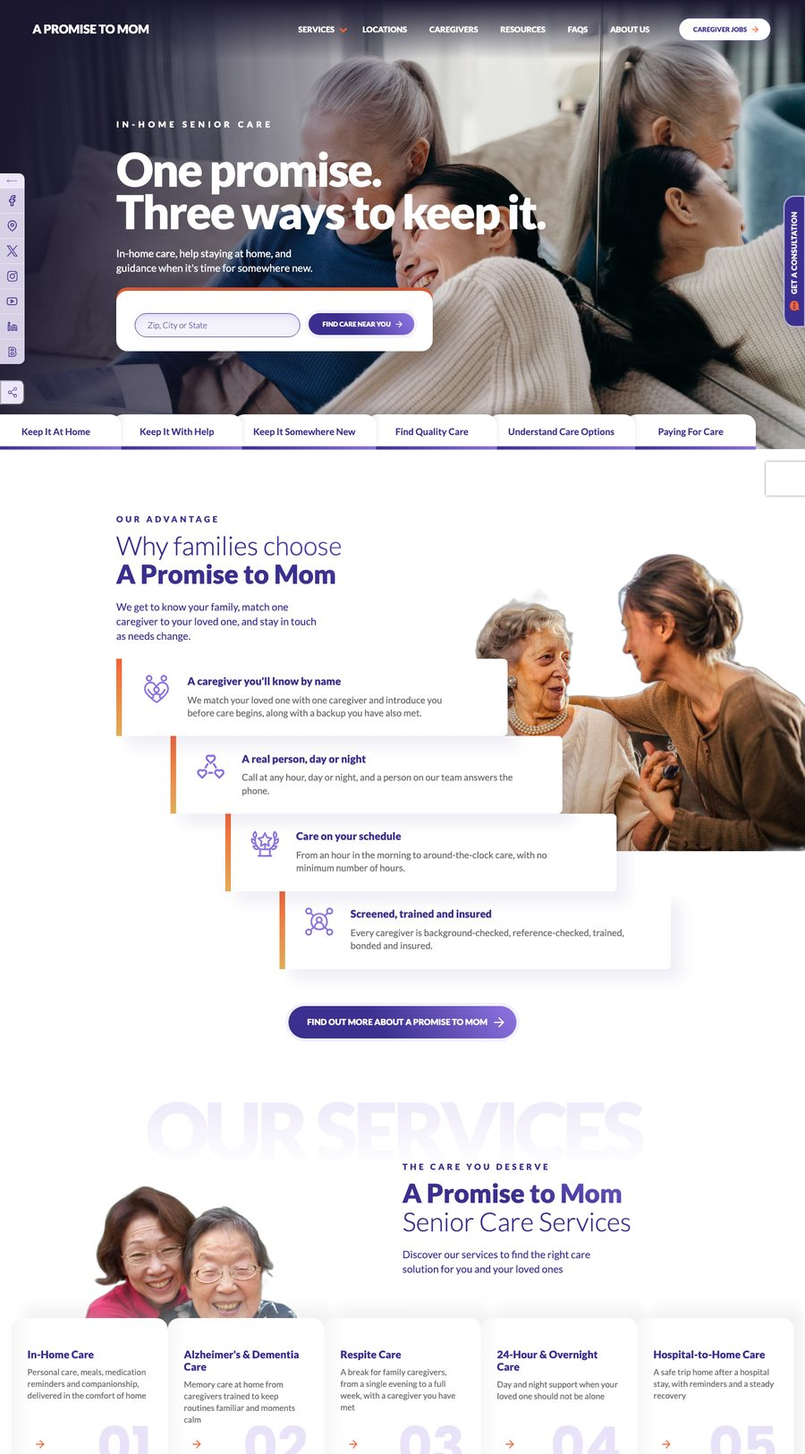
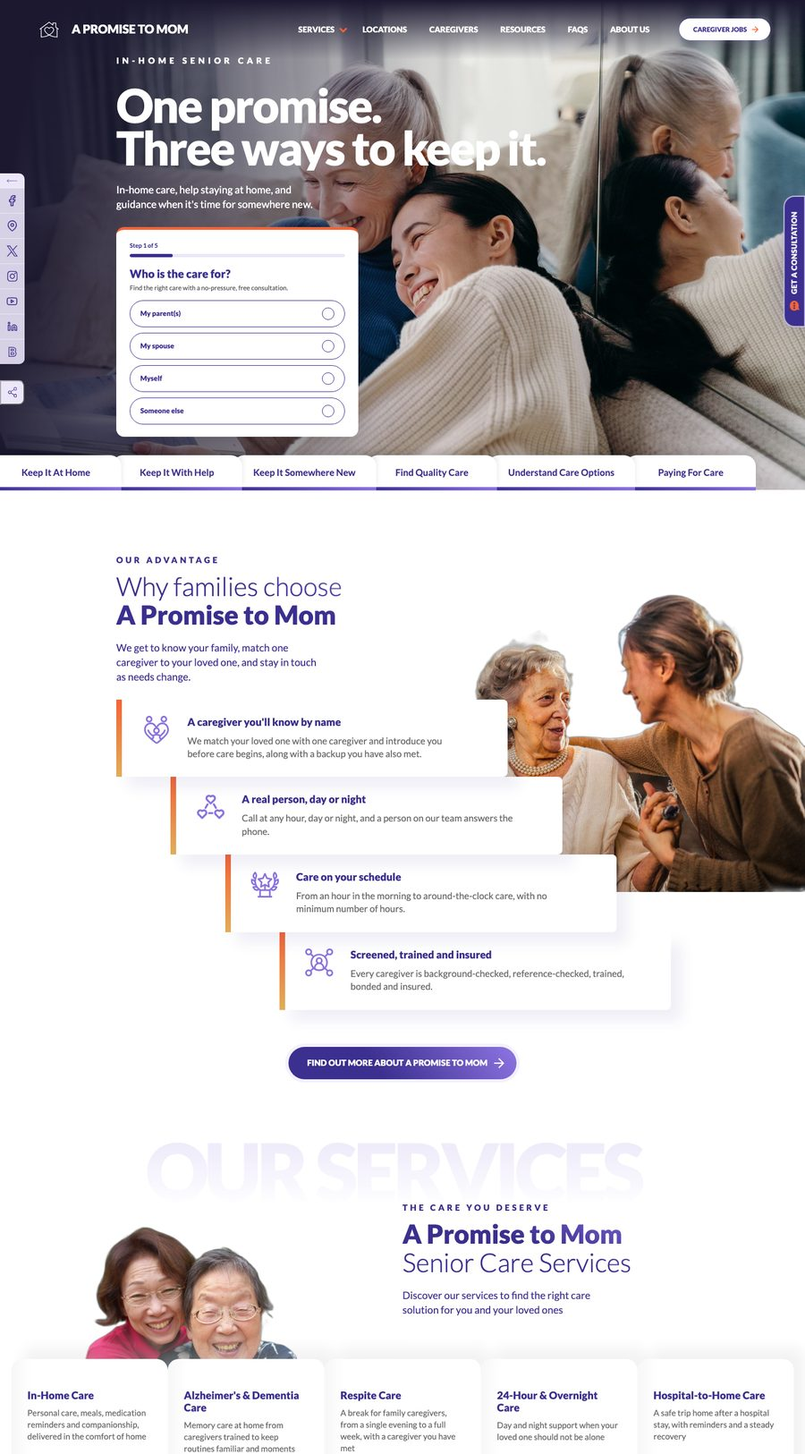
home care: sites apm-abc + Sites tab

diff --git a/home-care-industry/sites/apm-abc/index.html b/home-care-industry/sites/apm-abc/index.html
@@ -300,7 +300,54 @@ body.nav-active .navbar-mobile .brand-wordmark, .navbar-mobile.is-active .brand-
 h2.c-heading__title > span.nowrap { font-weight: inherit; }
 .m-banner h1.h1-two-lines { font-size: clamp(3.2rem, 3.7vw, 5.4rem); width: max-content; max-width: none; }
 .m-banner .c-heading, .m-banner .c-banner__content, .m-banner__content { overflow: visible; }
-@media (max-width: 767px) { .m-banner h1.h1-two-lines { width: auto; } .m-banner h1.h1-two-lines .nowrap { white-space: normal; } }
+@media (max-width: 767px) { .m-banner h1.h1-two-lines { width: auto; font-size: 52px !important; } .m-banner h1.h1-two-lines .nowrap { white-space: normal; display: inline-block; max-width: 5.6em; } }
+@media (max-width: 360px) { .m-banner h1.h1-two-lines { font-size: 46px !important; } }
+/* logo lockup: the house-and-heart mark + wordmark */
+.brand-lockup { display: inline-flex; align-items: center; gap: 10px; }
+.brand-lockup .logo-mark { width: 34px; height: 28px; color: #fff; flex: 0 0 auto; }
+.site-header.is-sticky .brand-lockup .logo-mark, .site-footer .brand-lockup .logo-mark, .navbar-mobile.is-active .brand-lockup .logo-mark, body.nav-active .brand-lockup .logo-mark { color: var(--primary-color1, #3B2F8F); }
+.site-footer .brand-lockup .logo-mark { width: 40px; height: 33px; }
+/* the six-card care section */
+.svc-sec { padding: 6rem 0 4rem; }
+.svc-head { padding-bottom: 0 !important; }
+.svc-grid { display: grid; grid-template-columns: repeat(3, minmax(0, 1fr)); gap: 24px; max-width: 1120px; margin: 3rem auto 0; padding: 0 2.4rem; }
+@media (max-width: 1024px) { .svc-grid { grid-template-columns: repeat(2, minmax(0, 1fr)); } }
+@media (max-width: 640px) { .svc-grid { grid-template-columns: 1fr; } }
+.svc-grid .c-image::before { content: none !important; }
+.svc-grid .c-image__media { position: static !important; }
+.svc-grid article.c-block { background: #fff; border-radius: 12px; overflow: hidden; box-shadow: 0 8px 24px rgba(46,36,112, .12); height: 100%; }
+.svc-grid .c-image { aspect-ratio: 16 / 10; overflow: hidden; }
+.svc-grid .c-image img { width: 100%; height: 100%; object-fit: cover; display: block; }
+.svc-grid .c-block__body { padding: 20px 22px 24px; }
+.svc-grid h3 { font-size: 2rem; margin-bottom: 8px; }
+.svc-grid .c-block__description p { font-size: 1.5rem; line-height: 1.55; color: #555; }
+/* the multi-step form in the hero card */
+.quiz { width: 100%; text-align: left; }
+.quiz__top { display: flex; justify-content: space-between; align-items: center; font-size: 1.3rem; font-weight: 700; color: var(--primary-color1, #3B2F8F); margin-bottom: 8px; }
+.quiz__back { background: none; border: 0; padding: 4px 0; color: var(--primary-color1, #3B2F8F); font: inherit; font-weight: 700; cursor: pointer; }
+.quiz__bar { height: 6px; background: #ECE7F8; border-radius: 6px; overflow: hidden; margin-bottom: 18px; }
+.quiz__bar span { display: block; height: 100%; width: 20%; background: var(--primary-color1, #3B2F8F); border-radius: 6px; }
+.quiz__q { font-size: 2.4rem; line-height: 1.15; color: var(--primary-color1, #3B2F8F); margin: 0 0 6px; font-weight: 800; }
+.quiz__hint { font-size: 1.4rem; color: #555; margin: 0 0 14px; }
+.quiz__opts { display: flex; flex-direction: column; gap: 10px; }
+.q-opt { display: flex; align-items: center; justify-content: space-between; gap: 12px; width: 100%; text-align: left; background: #fff; border: 1.5px solid var(--primary-color1, #3B2F8F); border-radius: 60px; padding: 12px 18px; cursor: pointer; font: inherit; font-size: 1.5rem; font-weight: 700; color: var(--primary-color1, #3B2F8F); }
+.q-opt small { display: block; font-weight: 400; font-size: 1.3rem; color: #555; margin-top: 2px; }
+.q-opt.is-multi { border-radius: 14px; }
+.q-opt.is-selected { background: #ECE7F8; }
+.q-opt__check { width: 22px; height: 22px; border-radius: 50%; border: 1.5px solid var(--primary-color1, #3B2F8F); flex: 0 0 auto; position: relative; }
+.q-opt.is-selected .q-opt__check { background: var(--primary-color1, #3B2F8F); }
+.q-opt.is-selected .q-opt__check::after { content: ""; position: absolute; left: 7px; top: 3px; width: 5px; height: 10px; border: solid #fff; border-width: 0 2px 2px 0; transform: rotate(45deg); }
+.quiz__field { display: block; margin-bottom: 12px; }
+.quiz__field span { display: block; font-size: 1.3rem; font-weight: 700; color: var(--primary-color1, #3B2F8F); margin-bottom: 5px; }
+.quiz__field input, .quiz__field select { width: 100%; padding: 11px 16px; font: inherit; font-size: 1.5rem; border: 1.5px solid var(--primary-color1, #3B2F8F); border-radius: 60px; background: #fff; color: #222; }
+.quiz .c-btn { width: 100%; justify-content: center; margin-top: 8px; border: 0; cursor: pointer; font-family: var(--btn-font-family, inherit); }
+.quiz__note { font-size: 1.2rem; color: #666; margin: 10px 0 0; }
+.quiz__done .quiz__q { color: var(--primary-color1, #3B2F8F); }
+.m-banner .loc-search-form-wrapper, .m-banner .c-banner__form { max-width: 48rem; }
+.quiz { background: #fff; border-radius: 14px; border-top: 5px solid #F36437; padding: 20px 24px 22px; box-shadow: 0 20px 40px rgba(0,0,0,.18); max-width: 52rem; }
+.m-banner.m-banner--medium { height: auto; min-height: 80.3rem; }
+.m-banner .quiz { margin-bottom: 4rem; }
+@media (max-width: 991px) { #site-footer .brand-lockup { flex-wrap: wrap; max-width: 100%; } #site-footer .brand-wordmark { white-space: normal; } }
 </style></head>
 <body class="home wp-singular page-template-default page page-id-739 wp-theme-digitalexpress fixed-header" data-aos-easing="ease" data-aos-duration="800" data-aos-delay="0">
               
@@ -327,7 +374,7 @@ h2.c-heading__title > span.nowrap { font-weight: inherit; }
 					
 						
 <div class="site-header__widget">
-	        <a href="#top" class="site-header__logo"><span class="brand-wordmark">A Promise to Mom</span></a>
+	        <a href="#top" class="site-header__logo"><span class="brand-lockup"><svg class="logo-mark" aria-hidden="true" viewBox="0 0 240 195" xmlns="http://www.w3.org/2000/svg"><path fill="currentColor" d="M236.8,87.5L221.5,76c-0.2-0.1-0.3-0.3-0.5-0.4l-14.3-10.8V14.5c0-2.5-2-4.5-4.5-4.5h-35.7 c-2.5,0-4.5,2-4.5,4.5v16.7L122.2,1c-0.5-0.4-1-0.6-1.6-0.8c-1.4-0.5-3-0.3-4.2,0.7L17.6,75.5c-0.2,0.1-0.3,0.2-0.5,0.4L1.8,87.4 c-2,1.5-2.4,4.3-0.9,6.3c0.9,1.2,2.2,1.8,3.6,1.8c1,0,1.9-0.3,2.7-0.9l8.2-6.2v101.5c0,0,0,0,0,0.1c0,0,0,0,0,0.1 c0,2.5,2,4.5,4.5,4.5c0,0,0,0,0,0c2.3,0,56.6-0.9,99.3-24.9c42.7,24.1,96.9,24.9,99.3,24.9c0,0,0,0,0,0c0,0,0,0,0,0c0,0,0,0,0,0 c0,0,0,0,0,0c0.3,0,0.6,0,0.9-0.1c0.2,0,0.4-0.1,0.7-0.2c0.1,0,0.1,0,0.2-0.1c0.2-0.1,0.4-0.2,0.6-0.3c0.1,0,0.1-0.1,0.2-0.1 c0.2-0.1,0.3-0.2,0.5-0.4c0.1-0.1,0.2-0.1,0.2-0.2c0.1-0.1,0.2-0.3,0.4-0.4c0.1-0.1,0.1-0.2,0.2-0.2c0.1-0.1,0.2-0.3,0.3-0.5 c0.1-0.1,0.1-0.2,0.2-0.3c0.1-0.2,0.1-0.3,0.2-0.5c0-0.1,0.1-0.2,0.1-0.3c0-0.2,0-0.3,0.1-0.5c0-0.1,0-0.2,0-0.4c0,0,0,0,0,0 c0,0,0,0,0,0V88.6l8.2,6.2c0.8,0.6,1.8,0.9,2.7,0.9c1.4,0,2.7-0.6,3.6-1.8C239.2,91.9,238.8,89.1,236.8,87.5z M119.2,10.1 l44.5,33.7c1.4,1,3.2,1.2,4.8,0.4c1.5-0.8,2.5-2.3,2.5-4.1V19h26.6v48.1c0,0.1,0,0.2,0,0.3c0,0.2,0,0.3,0,0.5 c0,0.1,0.1,0.3,0.1,0.4c0,0.1,0.1,0.3,0.1,0.4c0.1,0.1,0.1,0.3,0.2,0.4c0.1,0.1,0.1,0.3,0.2,0.4c0.1,0.1,0.2,0.2,0.3,0.4 c0.1,0.1,0.2,0.2,0.3,0.3c0.1,0.1,0.2,0.2,0.4,0.3c0.1,0.1,0.1,0.1,0.2,0.2l14.7,11.1v103.6c-13.2-0.7-52.9-4.2-85.8-21.2 c0.6-0.4,1.3-0.8,1.9-1.3c13.3-9,24.9-19.3,34.4-30.8c9.7-11.7,19.9-27.3,13.1-45c-5-12.9-16.8-21.9-30-22.7 c-0.8-0.1-1.6-0.1-2.4-0.1c-10,0-19.5,4.4-26,11.7c-6.5-7.4-16-11.7-26-11.7c-0.8,0-1.6,0-2.4,0.1c-13.2,0.9-25,9.8-30,22.7 c-6.9,17.6,3.4,33.3,13.1,45c9.5,11.5,21.1,21.8,34.4,30.8c0.6,0.4,1.3,0.8,1.9,1.3c-32.9,16.9-72.6,20.5-85.8,21.2V81.6 L119.2,10.1z M113.5,155.4c-12.6-8.5-23.5-18.3-32.5-29.1c-8.6-10.4-16.7-22.7-11.6-35.9c3.7-9.5,12.6-16.3,22.1-17 c0.6,0,1.2-0.1,1.8-0.1c9.1,0,17.4,4.7,22.1,12.6c0,0.1,0.1,0.1,0.1,0.2c0.1,0.1,0.2,0.3,0.3,0.4c0.1,0.1,0.2,0.2,0.3,0.3 c0.1,0.1,0.2,0.2,0.3,0.3c0.1,0.1,0.3,0.2,0.4,0.3c0.1,0,0.1,0.1,0.2,0.1c0.1,0,0.1,0.1,0.2,0.1c0.1,0.1,0.3,0.1,0.4,0.2 c0.1,0.1,0.3,0.1,0.4,0.1c0.1,0,0.3,0.1,0.4,0.1c0.1,0,0.3,0.1,0.4,0.1c0.1,0,0.3,0,0.4,0c0.1,0,0.3,0,0.4,0c0.1,0,0.3,0,0.4-0.1 c0.1,0,0.3-0.1,0.4-0.1c0.1,0,0.3-0.1,0.4-0.1c0.1-0.1,0.3-0.1,0.4-0.2c0.1,0,0.1-0.1,0.2-0.1c0.1,0,0.1-0.1,0.2-0.1 c0.1-0.1,0.3-0.2,0.4-0.3c0.1-0.1,0.2-0.2,0.3-0.3c0.1-0.1,0.2-0.2,0.3-0.3c0.1-0.1,0.2-0.3,0.3-0.4c0-0.1,0.1-0.1,0.1-0.2 c4.7-7.9,13-12.6,22.1-12.6c0.6,0,1.2,0,1.8,0.1c9.5,0.6,18.4,7.5,22.2,17c5.1,13.1-3,25.5-11.6,35.9c-9,10.8-19.9,20.6-32.5,29.1 c-1.9,1.3-3.9,2.5-5.8,3.7C117.3,157.9,115.4,156.7,113.5,155.4z"></path></svg><span class="brand-wordmark">A Promise to Mom</span></span></a>
 	</div>
 
 					
@@ -416,7 +463,7 @@ h2.c-heading__title > span.nowrap { font-weight: inherit; }
 
     
 <div class="site-header__widget">
-	        <a href="#top" class="site-header__logo"><span class="brand-wordmark">A Promise to Mom</span></a>
+	        <a href="#top" class="site-header__logo"><span class="brand-lockup"><svg class="logo-mark" aria-hidden="true" viewBox="0 0 240 195" xmlns="http://www.w3.org/2000/svg"><path fill="currentColor" d="M236.8,87.5L221.5,76c-0.2-0.1-0.3-0.3-0.5-0.4l-14.3-10.8V14.5c0-2.5-2-4.5-4.5-4.5h-35.7 c-2.5,0-4.5,2-4.5,4.5v16.7L122.2,1c-0.5-0.4-1-0.6-1.6-0.8c-1.4-0.5-3-0.3-4.2,0.7L17.6,75.5c-0.2,0.1-0.3,0.2-0.5,0.4L1.8,87.4 c-2,1.5-2.4,4.3-0.9,6.3c0.9,1.2,2.2,1.8,3.6,1.8c1,0,1.9-0.3,2.7-0.9l8.2-6.2v101.5c0,0,0,0,0,0.1c0,0,0,0,0,0.1 c0,2.5,2,4.5,4.5,4.5c0,0,0,0,0,0c2.3,0,56.6-0.9,99.3-24.9c42.7,24.1,96.9,24.9,99.3,24.9c0,0,0,0,0,0c0,0,0,0,0,0c0,0,0,0,0,0 c0,0,0,0,0,0c0.3,0,0.6,0,0.9-0.1c0.2,0,0.4-0.1,0.7-0.2c0.1,0,0.1,0,0.2-0.1c0.2-0.1,0.4-0.2,0.6-0.3c0.1,0,0.1-0.1,0.2-0.1 c0.2-0.1,0.3-0.2,0.5-0.4c0.1-0.1,0.2-0.1,0.2-0.2c0.1-0.1,0.2-0.3,0.4-0.4c0.1-0.1,0.1-0.2,0.2-0.2c0.1-0.1,0.2-0.3,0.3-0.5 c0.1-0.1,0.1-0.2,0.2-0.3c0.1-0.2,0.1-0.3,0.2-0.5c0-0.1,0.1-0.2,0.1-0.3c0-0.2,0-0.3,0.1-0.5c0-0.1,0-0.2,0-0.4c0,0,0,0,0,0 c0,0,0,0,0,0V88.6l8.2,6.2c0.8,0.6,1.8,0.9,2.7,0.9c1.4,0,2.7-0.6,3.6-1.8C239.2,91.9,238.8,89.1,236.8,87.5z M119.2,10.1 l44.5,33.7c1.4,1,3.2,1.2,4.8,0.4c1.5-0.8,2.5-2.3,2.5-4.1V19h26.6v48.1c0,0.1,0,0.2,0,0.3c0,0.2,0,0.3,0,0.5 c0,0.1,0.1,0.3,0.1,0.4c0,0.1,0.1,0.3,0.1,0.4c0.1,0.1,0.1,0.3,0.2,0.4c0.1,0.1,0.1,0.3,0.2,0.4c0.1,0.1,0.2,0.2,0.3,0.4 c0.1,0.1,0.2,0.2,0.3,0.3c0.1,0.1,0.2,0.2,0.4,0.3c0.1,0.1,0.1,0.1,0.2,0.2l14.7,11.1v103.6c-13.2-0.7-52.9-4.2-85.8-21.2 c0.6-0.4,1.3-0.8,1.9-1.3c13.3-9,24.9-19.3,34.4-30.8c9.7-11.7,19.9-27.3,13.1-45c-5-12.9-16.8-21.9-30-22.7 c-0.8-0.1-1.6-0.1-2.4-0.1c-10,0-19.5,4.4-26,11.7c-6.5-7.4-16-11.7-26-11.7c-0.8,0-1.6,0-2.4,0.1c-13.2,0.9-25,9.8-30,22.7 c-6.9,17.6,3.4,33.3,13.1,45c9.5,11.5,21.1,21.8,34.4,30.8c0.6,0.4,1.3,0.8,1.9,1.3c-32.9,16.9-72.6,20.5-85.8,21.2V81.6 L119.2,10.1z M113.5,155.4c-12.6-8.5-23.5-18.3-32.5-29.1c-8.6-10.4-16.7-22.7-11.6-35.9c3.7-9.5,12.6-16.3,22.1-17 c0.6,0,1.2-0.1,1.8-0.1c9.1,0,17.4,4.7,22.1,12.6c0,0.1,0.1,0.1,0.1,0.2c0.1,0.1,0.2,0.3,0.3,0.4c0.1,0.1,0.2,0.2,0.3,0.3 c0.1,0.1,0.2,0.2,0.3,0.3c0.1,0.1,0.3,0.2,0.4,0.3c0.1,0,0.1,0.1,0.2,0.1c0.1,0,0.1,0.1,0.2,0.1c0.1,0.1,0.3,0.1,0.4,0.2 c0.1,0.1,0.3,0.1,0.4,0.1c0.1,0,0.3,0.1,0.4,0.1c0.1,0,0.3,0.1,0.4,0.1c0.1,0,0.3,0,0.4,0c0.1,0,0.3,0,0.4,0c0.1,0,0.3,0,0.4-0.1 c0.1,0,0.3-0.1,0.4-0.1c0.1,0,0.3-0.1,0.4-0.1c0.1-0.1,0.3-0.1,0.4-0.2c0.1,0,0.1-0.1,0.2-0.1c0.1,0,0.1-0.1,0.2-0.1 c0.1-0.1,0.3-0.2,0.4-0.3c0.1-0.1,0.2-0.2,0.3-0.3c0.1-0.1,0.2-0.2,0.3-0.3c0.1-0.1,0.2-0.3,0.3-0.4c0-0.1,0.1-0.1,0.1-0.2 c4.7-7.9,13-12.6,22.1-12.6c0.6,0,1.2,0,1.8,0.1c9.5,0.6,18.4,7.5,22.2,17c5.1,13.1-3,25.5-11.6,35.9c-9,10.8-19.9,20.6-32.5,29.1 c-1.9,1.3-3.9,2.5-5.8,3.7C117.3,157.9,115.4,156.7,113.5,155.4z"></path></svg><span class="brand-wordmark">A Promise to Mom</span></span></a>
 	</div>
 
             <div class="nav-main__btn js-mobileNav js-menu-switcher -mobile" role="button" aria-expanded="false">
@@ -667,20 +714,16 @@ h2.c-heading__title > span.nowrap { font-weight: inherit; }
 
         
         
-                    <div class="loc-search-form" id="finder" novalidate="">
-    <div class="search-fields-wrapper">
-        <label class="loc-search-form_label" for="loc-search-form-1">Zip, City or State</label>
-        <input type="text" class="js-search-address-field search-field pac-target-input" value="" id="loc-search-form-1" placeholder="Zip, City or State" name="city">
-                    <div class="js-search-form-errors error">Location not found. Please try a different address or zip code.</div>
-            </div>
-    <button type="submit" id="finder-go" class="c-btn -primary -small cta_1 has-icon icon-right locations-filter-search-btn">
-        <span class="c-btn__txt">Find Care Near You</span>
-        <span class="c-btn__ico">
-                    <svg width="30" height="30" class="icon icon-lib-icon-arrow1 icon " aria-hidden="true" role="img"><use xlink:href="#lib-icon-arrow1"></use></svg>		</span>
-    </button>
-    
-
-</div>            </div>
+                    <div class="quiz" id="finder" data-steps="5">
+    <div class="quiz__top"><button type="button" class="quiz__back" hidden="">◀ Back</button><span class="quiz__step">Step 1 of 5</span></div>
+    <div class="quiz__bar"><span></span></div>
+    <section class="quiz__panel" data-step="1"><h3 class="quiz__q">Who is the care for?</h3><p class="quiz__hint">Find the right care with a no-pressure, free consultation.</p><div class="quiz__opts"><button type="button" class="q-opt" data-name="who" data-value="My parent(s)"><span class="q-opt__text"><b>My parent(s)</b></span><span class="q-opt__check" aria-hidden="true"></span></button><button type="button" class="q-opt" data-name="who" data-value="My spouse"><span class="q-opt__text"><b>My spouse</b></span><span class="q-opt__check" aria-hidden="true"></span></button><button type="button" class="q-opt" data-name="who" data-value="Myself"><span class="q-opt__text"><b>Myself</b></span><span class="q-opt__check" aria-hidden="true"></span></button><button type="button" class="q-opt" data-name="who" data-value="Someone else"><span class="q-opt__text"><b>Someone else</b></span><span class="q-opt__check" aria-hidden="true"></span></button></div></section>
+    <section class="quiz__panel" data-step="2" hidden=""><h3 class="quiz__q">What can we help with?</h3><p class="quiz__hint">Choose everything that applies. You can add details when we talk.</p><div class="quiz__opts"><button type="button" class="q-opt is-multi" data-name="help" data-value="Daily living tasks"><span class="q-opt__text"><b>Daily living tasks</b><small>Light housekeeping, meal prep and medication reminders</small></span><span class="q-opt__check" aria-hidden="true"></span></button><button type="button" class="q-opt is-multi" data-name="help" data-value="Memory support"><span class="q-opt__text"><b>Memory support</b><small>Alzheimer's and other forms of dementia</small></span><span class="q-opt__check" aria-hidden="true"></span></button><button type="button" class="q-opt is-multi" data-name="help" data-value="Condition-specific care"><span class="q-opt__text"><b>Condition-specific care</b><small>Arthritis, diabetes, after a hospital stay, end-of-life care</small></span><span class="q-opt__check" aria-hidden="true"></span></button><button type="button" class="q-opt is-multi" data-name="help" data-value="Other types of support"><span class="q-opt__text"><b>Other types of support</b><small>Errands, transportation, companionship</small></span><span class="q-opt__check" aria-hidden="true"></span></button></div><button type="button" class="c-btn -primary -small quiz__next">Continue</button></section>
+    <section class="quiz__panel" data-step="3" hidden=""><h3 class="quiz__q">How soon is care needed?</h3><p class="quiz__hint">Whether it is an unexpected need or long-term care, we are here to help.</p><div class="quiz__opts"><button type="button" class="q-opt" data-name="when" data-value="Right away"><span class="q-opt__text"><b>Right away</b></span><span class="q-opt__check" aria-hidden="true"></span></button><button type="button" class="q-opt" data-name="when" data-value="Within a few weeks"><span class="q-opt__text"><b>Within a few weeks</b></span><span class="q-opt__check" aria-hidden="true"></span></button><button type="button" class="q-opt" data-name="when" data-value="Just planning ahead"><span class="q-opt__text"><b>Just planning ahead</b></span><span class="q-opt__check" aria-hidden="true"></span></button><button type="button" class="q-opt" data-name="when" data-value="I'm not sure"><span class="q-opt__text"><b>I'm not sure</b></span><span class="q-opt__check" aria-hidden="true"></span></button></div></section>
+    <section class="quiz__panel" data-step="4" hidden=""><h3 class="quiz__q">Where is care needed?</h3><p class="quiz__hint">So we can match you with a caregiver nearby.</p><label class="quiz__field"><span>ZIP / Postal code</span><input type="text" name="zip" inputmode="numeric" placeholder="30303" autocomplete="postal-code"></label><label class="quiz__field"><span>Best time for us to call</span><select name="calltime"><option>Morning (8am–12pm)</option><option>Afternoon (12pm–4pm)</option><option>Evening (4pm–8pm)</option></select></label><button type="button" class="c-btn -primary -small quiz__next">Continue</button></section>
+    <section class="quiz__panel" data-step="5" hidden=""><h3 class="quiz__q">Almost done!</h3><p class="quiz__hint">Fill in your contact details and a care advisor will reach out at the time you chose.</p><form class="quiz__form" novalidate=""><label class="quiz__field"><span>First name</span><input type="text" name="first" autocomplete="given-name" required=""></label><label class="quiz__field"><span>Last name</span><input type="text" name="last" autocomplete="family-name"></label><label class="quiz__field"><span>Email address</span><input type="email" name="email" autocomplete="email"></label><label class="quiz__field"><span>Phone number</span><input type="tel" name="phone" autocomplete="tel" required=""></label><button type="submit" class="c-btn -primary -small quiz__submit">Contact me with care options</button><p class="quiz__note">No obligation. We never share your information.</p></form></section>
+    <section class="quiz__panel quiz__done" data-step="6" hidden=""><h3 class="quiz__q">Thank you.</h3><p class="quiz__hint">A care advisor will call at the time you chose. Nobody else will.</p></section>
+  </div>            </div>
 </div>
 
 
@@ -1125,7 +1168,233 @@ h2.c-heading__title > span.nowrap { font-weight: inherit; }
     </div>
 
 	
+</div><div class="m-block gt-s svc-sec" id="care"><div class="m-block gt-s gb -version-3 l-content-simple-1 svc-head" style="">
+
+	
+	
+    <div class="m-block__container container" style="">
+		
+<div class="l-heading text-left l-heading-v1">
+
+	    <div class="c-heading -h2 "><div class="c-heading__pre">In-home care for seniors</div>
+        
+        
+        
+                    <h2 class="c-heading__title">The kind of care <span>you'd want for your own.</span></h2>        
+            </div>
+    <div class="c-heading__description is-wysiwyg"><p>Whether it's a few hours a week or around-the-clock support, we tailor everything to your loved one.</p></div>
+
+
+
+
+
+	        <div class="c-block__btn c-btn-bar">
+                    
+            </div>
+    
 </div>
+    </div>
+
+	
+</div><div class="svc-grid"><article class="c-block  c-block-v1 is-vertical text-left align-top" style="">
+    
+    
+        <div class="c-block__media">
+                                        <a class="c-block__link-full" href="#finder">
+                        <div class="c-image">
+        <div class="c-image__media c-image__primary">
+            
+                <img decoding="async" class="c-image__src" loading="eager" src="img/svc-1.jpg" alt="">
+
+            
+        </div>
+    </div>
+                </a>
+                    </div>
+
+    
+    <div class="c-block__body">
+
+        
+        
+                                    <a class="c-block__link-full" href="#finder">
+                        <div class="-h4">
+                <h3 class="c-block__title">Personal Care</h3>            </div><div class="c-block__description"><p>Compassionate, hands-on help with bathing, dressing, grooming and meal prep, so daily life stays safe and dignified.</p></div>
+                            </a>
+                    
+        
+                            <div class="c-block__btn c-btn-bar">
+                    <a href="#finder" class="c-btn -small -link has-icon icon-right " aria-label="Read more about blog post: Blood Sugar Changes in Older Adults: Warning Signs Families Should Know"><span class="c-btn__txt">Learn more</span><span class="c-btn__ico"><svg width="30" height="30" class="icon icon-lib-icon-arrow1 " aria-hidden="true" role="img"><use xlink:href="#lib-icon-arrow1"></use></svg></span></a>
+            </div>
+            
+    </div>
+
+</article><article class="c-block  c-block-v1 is-vertical text-left align-top" style="">
+    
+    
+        <div class="c-block__media">
+                                        <a class="c-block__link-full" href="#finder">
+                        <div class="c-image">
+        <div class="c-image__media c-image__primary">
+            
+                <img decoding="async" class="c-image__src" loading="eager" src="img/svc-2.jpg" alt="">
+
+            
+        </div>
+    </div>
+                </a>
+                    </div>
+
+    
+    <div class="c-block__body">
+
+        
+        
+                                    <a class="c-block__link-full" href="#finder">
+                        <div class="-h4">
+                <h3 class="c-block__title">Companionship</h3>            </div><div class="c-block__description"><p>Conversation, errands, hobbies and a friendly presence that keeps loneliness away and spirits up.</p></div>
+                            </a>
+                    
+        
+                            <div class="c-block__btn c-btn-bar">
+                    <a href="#finder" class="c-btn -small -link has-icon icon-right " aria-label="Read more about blog post: Blood Sugar Changes in Older Adults: Warning Signs Families Should Know"><span class="c-btn__txt">Learn more</span><span class="c-btn__ico"><svg width="30" height="30" class="icon icon-lib-icon-arrow1 " aria-hidden="true" role="img"><use xlink:href="#lib-icon-arrow1"></use></svg></span></a>
+            </div>
+            
+    </div>
+
+</article><article class="c-block  c-block-v1 is-vertical text-left align-top" style="">
+    
+    
+        <div class="c-block__media">
+                                        <a class="c-block__link-full" href="#finder">
+                        <div class="c-image">
+        <div class="c-image__media c-image__primary">
+            
+                <img decoding="async" class="c-image__src" loading="eager" src="img/svc-3.jpg" alt="">
+
+            
+        </div>
+    </div>
+                </a>
+                    </div>
+
+    
+    <div class="c-block__body">
+
+        
+        
+                                    <a class="c-block__link-full" href="#finder">
+                        <div class="-h4">
+                <h3 class="c-block__title">Respite Care</h3>            </div><div class="c-block__description"><p>You need rest too. We step in for a few hours, a weekend or longer so family caregivers can recharge.</p></div>
+                            </a>
+                    
+        
+                            <div class="c-block__btn c-btn-bar">
+                    <a href="#finder" class="c-btn -small -link has-icon icon-right " aria-label="Read more about blog post: Blood Sugar Changes in Older Adults: Warning Signs Families Should Know"><span class="c-btn__txt">Learn more</span><span class="c-btn__ico"><svg width="30" height="30" class="icon icon-lib-icon-arrow1 " aria-hidden="true" role="img"><use xlink:href="#lib-icon-arrow1"></use></svg></span></a>
+            </div>
+            
+    </div>
+
+</article><article class="c-block  c-block-v1 is-vertical text-left align-top" style="">
+    
+    
+        <div class="c-block__media">
+                                        <a class="c-block__link-full" href="#finder">
+                        <div class="c-image">
+        <div class="c-image__media c-image__primary">
+            
+                <img decoding="async" class="c-image__src" loading="eager" src="img/svc-4.jpg" alt="">
+
+            
+        </div>
+    </div>
+                </a>
+                    </div>
+
+    
+    <div class="c-block__body">
+
+        
+        
+                                    <a class="c-block__link-full" href="#finder">
+                        <div class="-h4">
+                <h3 class="c-block__title">24-Hour &amp; Live-In Care</h3>            </div><div class="c-block__description"><p>Steady, around-the-clock support and a reassuring presence, practical help and peace of mind day and night.</p></div>
+                            </a>
+                    
+        
+                            <div class="c-block__btn c-btn-bar">
+                    <a href="#finder" class="c-btn -small -link has-icon icon-right " aria-label="Read more about blog post: Blood Sugar Changes in Older Adults: Warning Signs Families Should Know"><span class="c-btn__txt">Learn more</span><span class="c-btn__ico"><svg width="30" height="30" class="icon icon-lib-icon-arrow1 " aria-hidden="true" role="img"><use xlink:href="#lib-icon-arrow1"></use></svg></span></a>
+            </div>
+            
+    </div>
+
+</article><article class="c-block  c-block-v1 is-vertical text-left align-top" style="">
+    
+    
+        <div class="c-block__media">
+                                        <a class="c-block__link-full" href="#finder">
+                        <div class="c-image">
+        <div class="c-image__media c-image__primary">
+            
+                <img decoding="async" class="c-image__src" loading="eager" src="img/svc-5.jpg" alt="">
+
+            
+        </div>
+    </div>
+                </a>
+                    </div>
+
+    
+    <div class="c-block__body">
+
+        
+        
+                                    <a class="c-block__link-full" href="#finder">
+                        <div class="-h4">
+                <h3 class="c-block__title">Dementia &amp; Alzheimer's Care</h3>            </div><div class="c-block__description"><p>Specially trained caregivers provide structure, gentle guidance and calm, familiar routines tailored to each stage.</p></div>
+                            </a>
+                    
+        
+                            <div class="c-block__btn c-btn-bar">
+                    <a href="#finder" class="c-btn -small -link has-icon icon-right " aria-label="Read more about blog post: Blood Sugar Changes in Older Adults: Warning Signs Families Should Know"><span class="c-btn__txt">Learn more</span><span class="c-btn__ico"><svg width="30" height="30" class="icon icon-lib-icon-arrow1 " aria-hidden="true" role="img"><use xlink:href="#lib-icon-arrow1"></use></svg></span></a>
+            </div>
+            
+    </div>
+
+</article><article class="c-block  c-block-v1 is-vertical text-left align-top" style="">
+    
+    
+        <div class="c-block__media">
+                                        <a class="c-block__link-full" href="#finder">
+                        <div class="c-image">
+        <div class="c-image__media c-image__primary">
+            
+                <img decoding="async" class="c-image__src" loading="eager" src="img/svc-6.jpg" alt="">
+
+            
+        </div>
+    </div>
+                </a>
+                    </div>
+
+    
+    <div class="c-block__body">
+
+        
+        
+                                    <a class="c-block__link-full" href="#finder">
+                        <div class="-h4">
+                <h3 class="c-block__title">Post-Operative Care</h3>            </div><div class="c-block__description"><p>Recovery support after a hospital stay or surgery: medication reminders, mobility help and a smoother healing at home.</p></div>
+                            </a>
+                    
+        
+                            <div class="c-block__btn c-btn-bar">
+                    <a href="#finder" class="c-btn -small -link has-icon icon-right " aria-label="Read more about blog post: Blood Sugar Changes in Older Adults: Warning Signs Families Should Know"><span class="c-btn__txt">Learn more</span><span class="c-btn__ico"><svg width="30" height="30" class="icon icon-lib-icon-arrow1 " aria-hidden="true" role="img"><use xlink:href="#lib-icon-arrow1"></use></svg></span></a>
+            </div>
+            
+    </div>
+
+</article></div></div>
 
 
 <div class="m-block gt-s -version-1 l-content-2 " style="" id="careers">
@@ -2318,7 +2587,7 @@ h2.c-heading__title > span.nowrap { font-weight: inherit; }
                 <div class="col-xs-12 footer-top__col info  col-sm-3">
 
                     
-                                                    <div class="footer-logo__wrap"><span class="brand-wordmark">A Promise to Mom</span></div>
+                                                    <div class="footer-logo__wrap"><span class="brand-lockup"><svg class="logo-mark" aria-hidden="true" viewBox="0 0 240 195" xmlns="http://www.w3.org/2000/svg"><path fill="currentColor" d="M236.8,87.5L221.5,76c-0.2-0.1-0.3-0.3-0.5-0.4l-14.3-10.8V14.5c0-2.5-2-4.5-4.5-4.5h-35.7 c-2.5,0-4.5,2-4.5,4.5v16.7L122.2,1c-0.5-0.4-1-0.6-1.6-0.8c-1.4-0.5-3-0.3-4.2,0.7L17.6,75.5c-0.2,0.1-0.3,0.2-0.5,0.4L1.8,87.4 c-2,1.5-2.4,4.3-0.9,6.3c0.9,1.2,2.2,1.8,3.6,1.8c1,0,1.9-0.3,2.7-0.9l8.2-6.2v101.5c0,0,0,0,0,0.1c0,0,0,0,0,0.1 c0,2.5,2,4.5,4.5,4.5c0,0,0,0,0,0c2.3,0,56.6-0.9,99.3-24.9c42.7,24.1,96.9,24.9,99.3,24.9c0,0,0,0,0,0c0,0,0,0,0,0c0,0,0,0,0,0 c0,0,0,0,0,0c0.3,0,0.6,0,0.9-0.1c0.2,0,0.4-0.1,0.7-0.2c0.1,0,0.1,0,0.2-0.1c0.2-0.1,0.4-0.2,0.6-0.3c0.1,0,0.1-0.1,0.2-0.1 c0.2-0.1,0.3-0.2,0.5-0.4c0.1-0.1,0.2-0.1,0.2-0.2c0.1-0.1,0.2-0.3,0.4-0.4c0.1-0.1,0.1-0.2,0.2-0.2c0.1-0.1,0.2-0.3,0.3-0.5 c0.1-0.1,0.1-0.2,0.2-0.3c0.1-0.2,0.1-0.3,0.2-0.5c0-0.1,0.1-0.2,0.1-0.3c0-0.2,0-0.3,0.1-0.5c0-0.1,0-0.2,0-0.4c0,0,0,0,0,0 c0,0,0,0,0,0V88.6l8.2,6.2c0.8,0.6,1.8,0.9,2.7,0.9c1.4,0,2.7-0.6,3.6-1.8C239.2,91.9,238.8,89.1,236.8,87.5z M119.2,10.1 l44.5,33.7c1.4,1,3.2,1.2,4.8,0.4c1.5-0.8,2.5-2.3,2.5-4.1V19h26.6v48.1c0,0.1,0,0.2,0,0.3c0,0.2,0,0.3,0,0.5 c0,0.1,0.1,0.3,0.1,0.4c0,0.1,0.1,0.3,0.1,0.4c0.1,0.1,0.1,0.3,0.2,0.4c0.1,0.1,0.1,0.3,0.2,0.4c0.1,0.1,0.2,0.2,0.3,0.4 c0.1,0.1,0.2,0.2,0.3,0.3c0.1,0.1,0.2,0.2,0.4,0.3c0.1,0.1,0.1,0.1,0.2,0.2l14.7,11.1v103.6c-13.2-0.7-52.9-4.2-85.8-21.2 c0.6-0.4,1.3-0.8,1.9-1.3c13.3-9,24.9-19.3,34.4-30.8c9.7-11.7,19.9-27.3,13.1-45c-5-12.9-16.8-21.9-30-22.7 c-0.8-0.1-1.6-0.1-2.4-0.1c-10,0-19.5,4.4-26,11.7c-6.5-7.4-16-11.7-26-11.7c-0.8,0-1.6,0-2.4,0.1c-13.2,0.9-25,9.8-30,22.7 c-6.9,17.6,3.4,33.3,13.1,45c9.5,11.5,21.1,21.8,34.4,30.8c0.6,0.4,1.3,0.8,1.9,1.3c-32.9,16.9-72.6,20.5-85.8,21.2V81.6 L119.2,10.1z M113.5,155.4c-12.6-8.5-23.5-18.3-32.5-29.1c-8.6-10.4-16.7-22.7-11.6-35.9c3.7-9.5,12.6-16.3,22.1-17 c0.6,0,1.2-0.1,1.8-0.1c9.1,0,17.4,4.7,22.1,12.6c0,0.1,0.1,0.1,0.1,0.2c0.1,0.1,0.2,0.3,0.3,0.4c0.1,0.1,0.2,0.2,0.3,0.3 c0.1,0.1,0.2,0.2,0.3,0.3c0.1,0.1,0.3,0.2,0.4,0.3c0.1,0,0.1,0.1,0.2,0.1c0.1,0,0.1,0.1,0.2,0.1c0.1,0.1,0.3,0.1,0.4,0.2 c0.1,0.1,0.3,0.1,0.4,0.1c0.1,0,0.3,0.1,0.4,0.1c0.1,0,0.3,0.1,0.4,0.1c0.1,0,0.3,0,0.4,0c0.1,0,0.3,0,0.4,0c0.1,0,0.3,0,0.4-0.1 c0.1,0,0.3-0.1,0.4-0.1c0.1,0,0.3-0.1,0.4-0.1c0.1-0.1,0.3-0.1,0.4-0.2c0.1,0,0.1-0.1,0.2-0.1c0.1,0,0.1-0.1,0.2-0.1 c0.1-0.1,0.3-0.2,0.4-0.3c0.1-0.1,0.2-0.2,0.3-0.3c0.1-0.1,0.2-0.2,0.3-0.3c0.1-0.1,0.2-0.3,0.3-0.4c0-0.1,0.1-0.1,0.1-0.2 c4.7-7.9,13-12.6,22.1-12.6c0.6,0,1.2,0,1.8,0.1c9.5,0.6,18.4,7.5,22.2,17c5.1,13.1-3,25.5-11.6,35.9c-9,10.8-19.9,20.6-32.5,29.1 c-1.9,1.3-3.9,2.5-5.8,3.7C117.3,157.9,115.4,156.7,113.5,155.4z"></path></svg><span class="brand-wordmark">A Promise to Mom</span></span></div>
                         
                         <div class="footer-block">
                                                             <div class="footer-title">REQUEST A CONSULTATION</div>
@@ -2676,7 +2945,7 @@ h2.c-heading__title > span.nowrap { font-weight: inherit; }
 
 
 
-<p id="a11y-speak-intro-text" class="a11y-speak-intro-text" style="position:absolute;margin:-1px;padding:0;height:1px;width:1px;overflow:hidden;clip-path:inset(50%);border:0;word-wrap:normal !important;word-break:normal !important;" hidden="">Notifications</p><div id="a11y-speak-assertive" class="a11y-speak-region" style="position:absolute;margin:-1px;padding:0;height:1px;width:1px;overflow:hidden;clip-path:inset(50%);border:0;word-wrap:normal !important;word-break:normal !important;" aria-live="assertive" aria-relevant="additions text" aria-atomic="true"></div><div id="a11y-speak-polite" class="a11y-speak-region" style="position:absolute;margin:-1px;padding:0;height:1px;width:1px;overflow:hidden;clip-path:inset(50%);border:0;word-wrap:normal !important;word-break:normal !important;" aria-live="polite" aria-relevant="additions text" aria-atomic="true"></div><div class="pac-container pac-logo" style="display: none;"></div><div><div class="grecaptcha-badge" data-style="bottomright" style="width: 256px; height: 60px; display: block; transition: right 0.3s; position: fixed; bottom: 14px; right: -186px; box-shadow: gray 0px 0px 5px; border-radius: 2px; overflow: hidden;"><div class="grecaptcha-logo"></div><div class="grecaptcha-error"></div><textarea id="g-recaptcha-response-100000" name="g-recaptcha-response" class="g-recaptcha-response" style="width: 250px; height: 40px; border: 1px solid rgb(193, 193, 193); margin: 10px 25px; padding: 0px; resize: none; display: none;"></textarea></div></div><script>window.PTM_FORM_ENDPOINT = window.PTM_FORM_ENDPOINT || "";</script><script>(function(){
+<p id="a11y-speak-intro-text" class="a11y-speak-intro-text" style="position:absolute;margin:-1px;padding:0;height:1px;width:1px;overflow:hidden;clip-path:inset(50%);border:0;word-wrap:normal !important;word-break:normal !important;" hidden="">Notifications</p><div id="a11y-speak-assertive" class="a11y-speak-region" style="position:absolute;margin:-1px;padding:0;height:1px;width:1px;overflow:hidden;clip-path:inset(50%);border:0;word-wrap:normal !important;word-break:normal !important;" aria-live="assertive" aria-relevant="additions text" aria-atomic="true"></div><div id="a11y-speak-polite" class="a11y-speak-region" style="position:absolute;margin:-1px;padding:0;height:1px;width:1px;overflow:hidden;clip-path:inset(50%);border:0;word-wrap:normal !important;word-break:normal !important;" aria-live="polite" aria-relevant="additions text" aria-atomic="true"></div><div class="pac-container pac-logo" style="display: none;"></div><div></div><script>window.PTM_FORM_ENDPOINT = window.PTM_FORM_ENDPOINT || "";</script><script>(function(){
   var $=function(s,r){return (r||document).querySelector(s)}; var $$=function(s,r){return Array.prototype.slice.call((r||document).querySelectorAll(s))};
   var header=$('.site-header'); function sticky(){ if(!header) return; header.classList.toggle('is-sticky', window.scrollY>10); } sticky(); window.addEventListener('scroll',sticky,{passive:true});
   /* mobile menu */
@@ -2694,11 +2963,11 @@ h2.c-heading__title > span.nowrap { font-weight: inherit; }
   $$('.js-sticky-form-trigger').forEach(function(t){ t.addEventListener('click',function(){ modal.classList.contains('is-active')?closeM():openM(); }); });
   $$('.js-sticky-form-close, .sticky-form__close').forEach(function(t){ t.addEventListener('click',closeM); }); if(overlay) overlay.addEventListener('click',closeM); document.addEventListener('keydown',function(e){ if(e.key==='Escape') closeM(); });
   /* social rail toggle */
-  var soc=$('.js-sticky-socials'); $$('.js-sticky-socials-toggle, .js-sticky-socials-close').forEach(function(t){ t.addEventListener('click',function(){ soc.classList.toggle('is-active'); }); });
+  var soc=$('.js-sticky-socials'); if (soc && window.innerWidth < 768) soc.classList.remove('is-active'); $$('.js-sticky-socials-toggle, .js-sticky-socials-close').forEach(function(t){ t.addEventListener('click',function(){ soc.classList.toggle('is-active'); }); });
   /* slider arrows */
   $$('.m-slider').forEach(function(sl){ var w=$('.swiper-wrapper',sl); $$('.swiper-button-prev, .js-slider-prev, [class*=prev]',sl).forEach(function(b){ b.addEventListener('click',function(e){ e.preventDefault(); w.scrollBy({left:-348,behavior:'smooth'}); }); }); $$('.swiper-button-next, .js-slider-next, [class*=next]',sl).forEach(function(b){ b.addEventListener('click',function(e){ e.preventDefault(); w.scrollBy({left:348,behavior:'smooth'}); }); }); });
   /* finder → consultation form */
-  var finder=$('#finder'); if(finder){ var fi=$('input',finder); if(fi){ fi.addEventListener('keydown',function(e){ if(e.key==='Enter'){ e.preventDefault(); finder.dispatchEvent(new Event('submit',{cancelable:true})); } }); } var goBtn=$('#finder-go'); if(goBtn){ goBtn.addEventListener('click',function(e){ e.preventDefault(); finder.dispatchEvent(new Event('submit',{cancelable:true})); }); } finder.addEventListener('submit',function(e){ e.preventDefault(); var v=($('input',finder)||{}).value||''; var t=$('#talk'); var ctx=$('#talk-form textarea[name=context]'); if(ctx&&v) ctx.value='City or zip: '+v; if(t) t.scrollIntoView({block:'start'}); var ph=$('#talk-form input[name=phone]'); if(ph) setTimeout(function(){ph.focus()},50); }); }
+  var finder=$('#finder:not(.quiz)'); if(finder){ var fi=$('input',finder); if(fi){ fi.addEventListener('keydown',function(e){ if(e.key==='Enter'){ e.preventDefault(); finder.dispatchEvent(new Event('submit',{cancelable:true})); } }); } var goBtn=$('#finder-go'); if(goBtn){ goBtn.addEventListener('click',function(e){ e.preventDefault(); finder.dispatchEvent(new Event('submit',{cancelable:true})); }); } finder.addEventListener('submit',function(e){ e.preventDefault(); var v=($('input',finder)||{}).value||''; var t=$('#talk'); var ctx=$('#talk-form textarea[name=context]'); if(ctx&&v) ctx.value='City or zip: '+v; if(t) t.scrollIntoView({block:'start'}); var ph=$('#talk-form input[name=phone]'); if(ph) setTimeout(function(){ph.focus()},50); }); }
   /* forms: two-step (phone → best time) for the section form, single-step for the modal */
   function store(data){ data.page=location.pathname; data.brand=document.title; data.ts=new Date().toISOString(); var ep=window.PTM_FORM_ENDPOINT; if(ep){ return fetch(ep,{method:'POST',headers:{'Content-Type':'application/json'},body:JSON.stringify(data)}).catch(function(){}); } try{ var arr=JSON.parse(localStorage.getItem('ptm_submissions')||'[]'); arr.push(data); localStorage.setItem('ptm_submissions',JSON.stringify(arr)); }catch(err){} return Promise.resolve(); }
   $$('form.talk-form').forEach(function(form){ form.addEventListener('submit',function(e){ e.preventDefault(); var phone=$('input[name=phone]',form); if(!phone||!phone.value.trim()){ if(phone){ phone.focus(); phone.style.borderColor='#c0392b'; } return; }
@@ -2707,5 +2976,20 @@ h2.c-heading__title > span.nowrap { font-weight: inherit; }
     store(data).then(function(){ $$('.gform-body, .gform_body, .gform_footer, .gform-footer, .talk-note, .talk-step2',form).forEach(function(el){ el.hidden=true; }); var ok=$('.talk-ok',form); if(ok) ok.hidden=false; }); }); });
   /* every internal href resolves */
   $$('a[href^="#"]').forEach(function(a){ var h=a.getAttribute('href'); if(h.length>1&&!document.querySelector(h)) a.setAttribute('href','#talk'); });
+})();
+(function(){
+  var $=function(s,r){return (r||document).querySelector(s)}; var $$=function(s,r){return Array.prototype.slice.call((r||document).querySelectorAll(s))};
+  var quiz=$('#finder.quiz'); if(!quiz) return; var total=5, step=1, data={help:[]};
+  var panels=$$('.quiz__panel',quiz), bar=$('.quiz__bar span',quiz), label=$('.quiz__step',quiz), back=$('.quiz__back',quiz);
+  function show(n){ step=n; panels.forEach(function(p){ p.hidden=(+p.getAttribute('data-step')!==n); }); if(n<=total){ label.textContent='Step '+n+' of '+total; bar.style.width=(n/total*100)+'%'; label.hidden=false; } else { label.hidden=true; bar.style.width='100%'; } back.hidden=(n===1||n>total); var f=$('.quiz__panel[data-step="'+n+'"] input, .quiz__panel[data-step="'+n+'"] .q-opt',quiz); if(f&&n>1) setTimeout(function(){ try{ f.focus({preventScroll:true}); }catch(e){} },30); }
+  back.addEventListener('click',function(){ if(step>1) show(step-1); });
+  $$('.q-opt',quiz).forEach(function(b){ b.addEventListener('click',function(){ var name=b.getAttribute('data-name'), v=b.getAttribute('data-value');
+    if(b.classList.contains('is-multi')){ b.classList.toggle('is-selected'); data.help=$$('.q-opt.is-multi.is-selected',quiz).map(function(x){return x.getAttribute('data-value')}); return; }
+    $$('.q-opt[data-name="'+name+'"]',quiz).forEach(function(x){ x.classList.remove('is-selected'); }); b.classList.add('is-selected'); data[name]=v; setTimeout(function(){ show(step+1); },160); }); });
+  $$('.quiz__next',quiz).forEach(function(btn){ btn.addEventListener('click',function(){ if(step===2&&!data.help.length){ var first=$('.quiz__panel[data-step="2"] .q-opt',quiz); first.focus(); return; } if(step===4){ var z=$('input[name=zip]',quiz); if(!z.value.trim()){ z.focus(); z.style.borderColor='#c0392b'; return; } data.zip=z.value.trim(); data.calltime=$('select[name=calltime]',quiz).value; } show(step+1); }); });
+  var form=$('.quiz__form',quiz); form.addEventListener('submit',function(e){ e.preventDefault(); var ph=$('input[name=phone]',form), fn=$('input[name=first]',form); if(!fn.value.trim()){ fn.focus(); fn.style.borderColor='#c0392b'; return; } if(!ph.value.trim()){ ph.focus(); ph.style.borderColor='#c0392b'; return; }
+    $$('input',form).forEach(function(i){ data[i.name]=i.value.trim(); }); data.page=location.pathname; data.brand=document.title; data.ts=new Date().toISOString();
+    var done=function(){ show(6); }; var ep=window.PTM_FORM_ENDPOINT; if(ep){ fetch(ep,{method:'POST',headers:{'Content-Type':'application/json'},body:JSON.stringify(data)}).then(done).catch(done); } else { try{ var arr=JSON.parse(localStorage.getItem('ptm_submissions')||'[]'); arr.push(data); localStorage.setItem('ptm_submissions',JSON.stringify(arr)); }catch(err){} done(); } });
+  show(1);
 })();
 </script></body></html>
